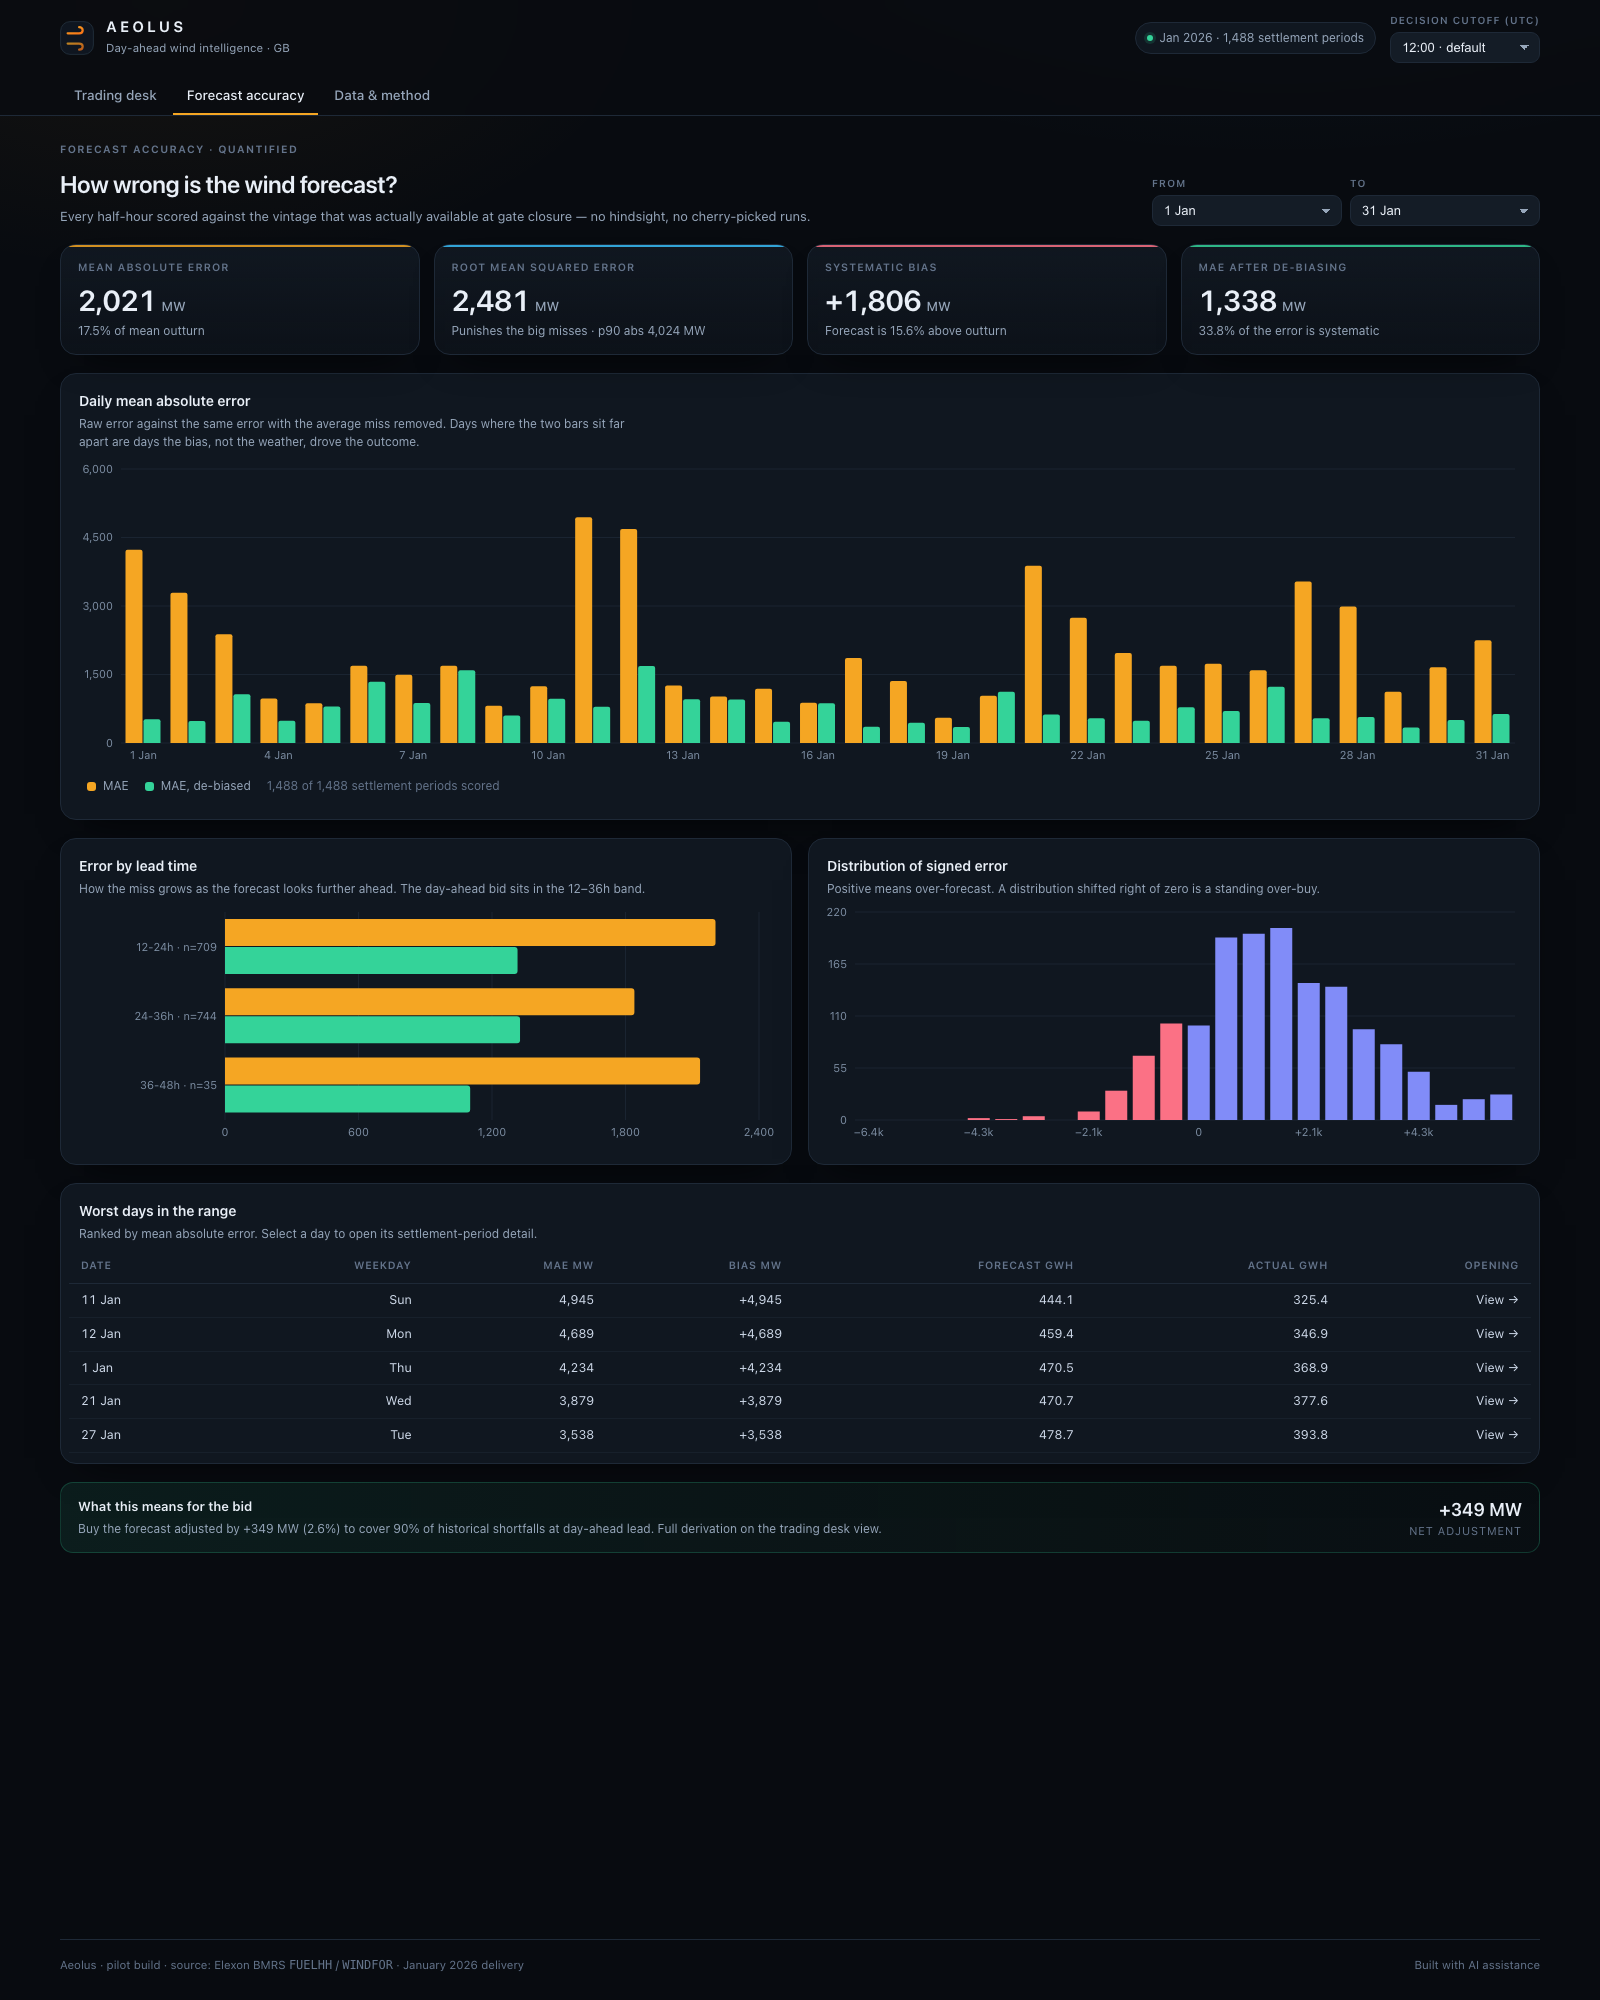
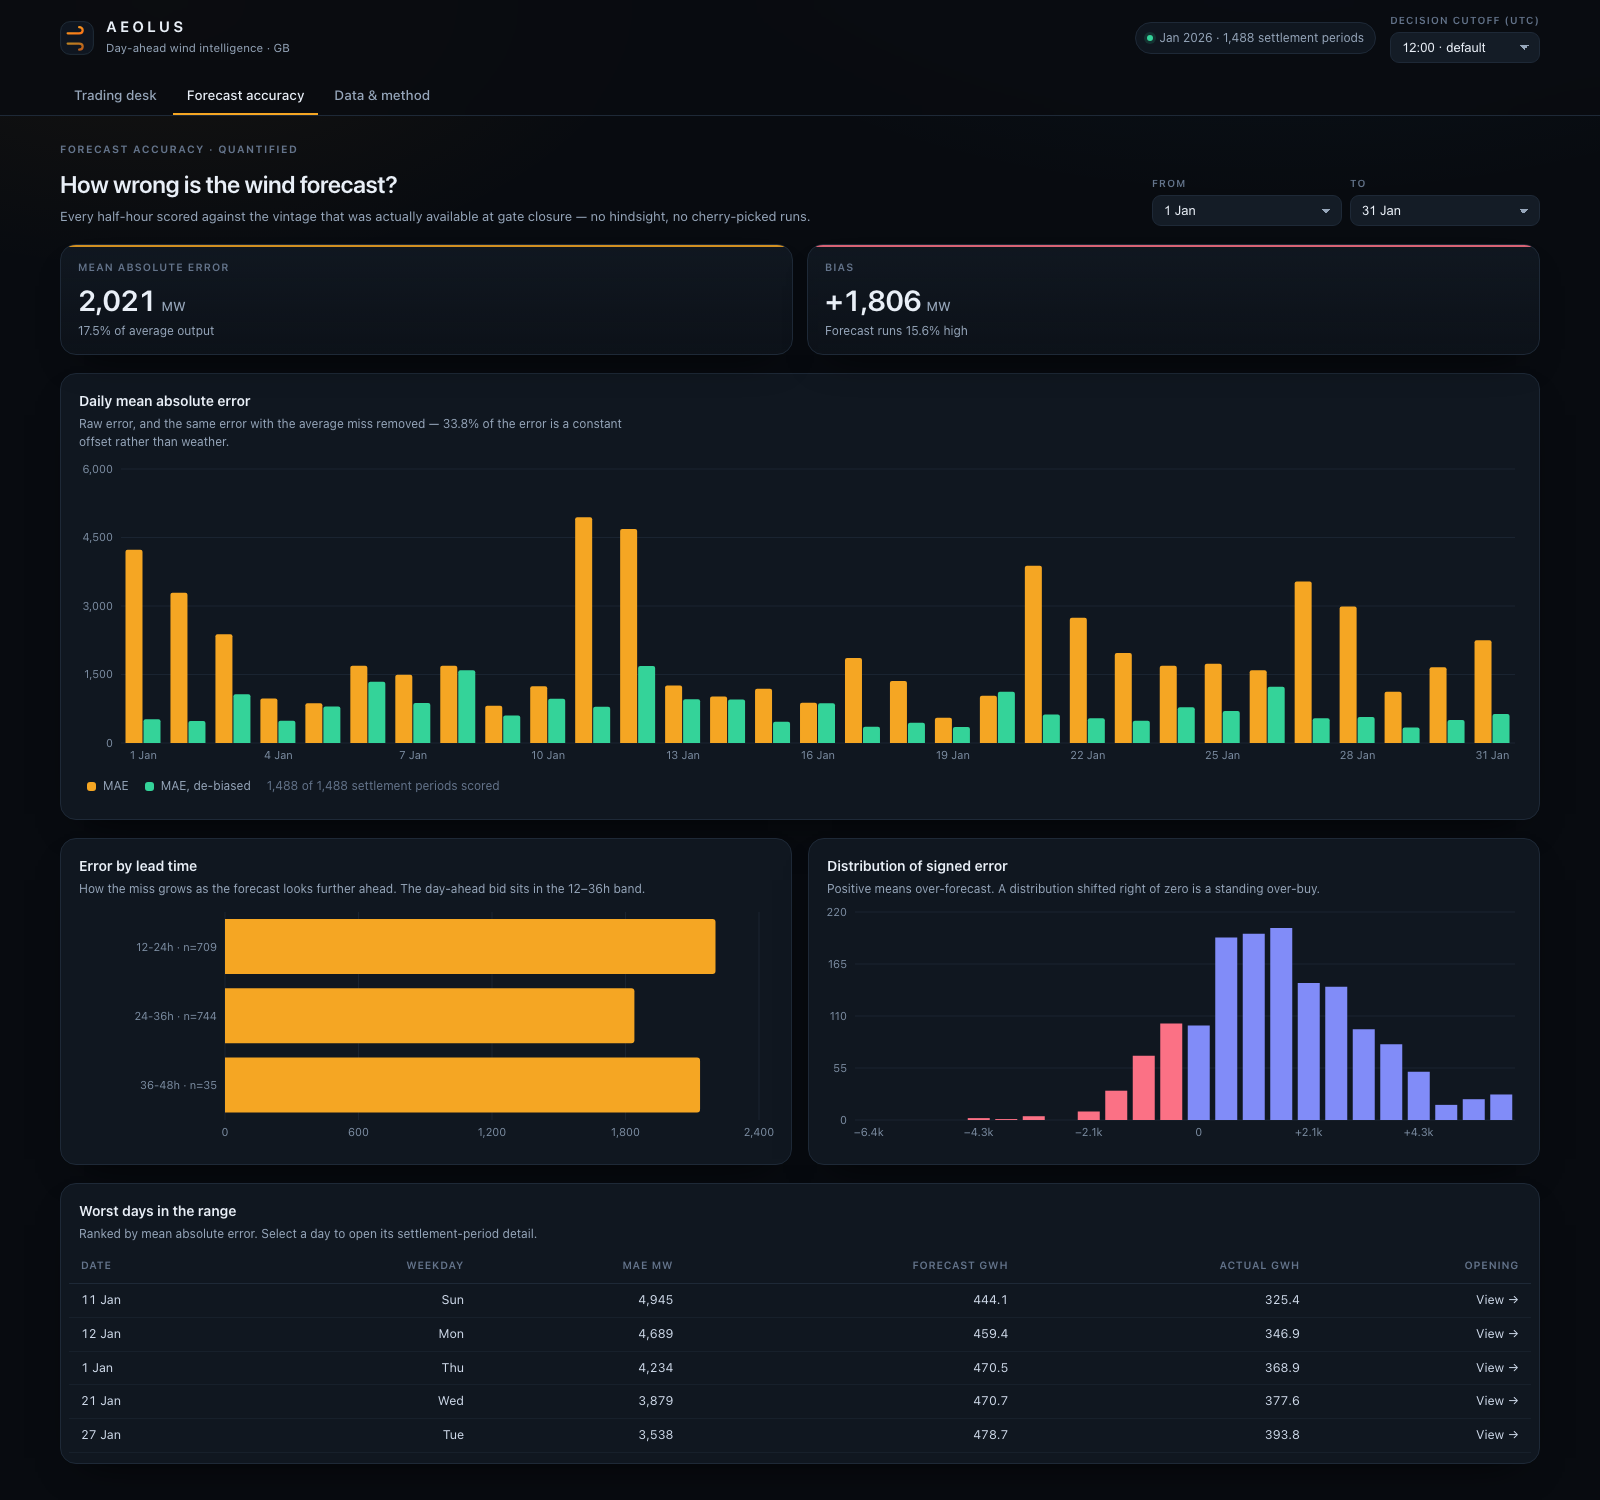
Simplify the interface: one number per question, nothing shown twice
The dashboard asked the reader to do arithmetic and repeated the same figures
across tabs. Now:

- trading desk: three cards (forecast, actual, error) instead of four; bias is
  no longer a separate card that duplicates MAE when all errors share a sign.
- recommendation: one figure, one percentage, a two-row ledger and a single
  sentence, replacing the four-row derivation.
- accuracy: two cards (MAE, bias) instead of four; RMSE and de-biased MAE stay
  in the API, and de-biasing is shown once, on the chart that visualises it.
- lead-time chart: single series (sample size retained on the axis).
- worst-days table: dropped the bias column, which repeated MAE in every row.
- removed the duplicate 'what this means for the bid' banner.
- metric definitions: six to four, in plain words.

diff --git a/frontend/src/pages/DecisionPage.tsx b/frontend/src/pages/DecisionPage.tsx
@@ -2,7 +2,7 @@ import { useMemo } from 'react'
 import { api, useAsync } from '../api'
 import { ErrorByPeriod, ForecastVsActual, C } from '../components/charts'
 import { ErrorState, Kpi, Loading, Panel } from '../components/Panel'
-import { clock, dayShort, fullDay, gwh, mw, pct, signedMw } from '../format'
+import { clock, dayShort, fullDay, gwh, mw, pct, signedGwh, signedMw } from '../format'
 import type { Meta } from '../types'
 
 export function DecisionPage({
@@ -41,9 +41,6 @@ export function DecisionPage({
   if (!data) return null
 
   const { summary, energy, buffer } = data
-  const horizonHours = 24
-  const biasGwh = ((buffer.bias_mw ?? 0) * horizonHours) / 1000
-  const headroomGwh = ((buffer.headroom_p90_mw ?? 0) * horizonHours) / 1000
   const vsForecastPct =
     energy.forecast_gwh > 0 ? ((energy.recommended_gwh_p90 - energy.forecast_gwh) / energy.forecast_gwh) * 100 : 0
 
@@ -121,23 +118,14 @@ export function DecisionPage({
           value={gwh(energy.actual_gwh)}
           unit="GWh"
           accent={C.actual}
-          sub={`Mean ${mw(summary.mean_actual_mw)} MW · ${data.status === 'published' ? 'settled' : 'pending'}`}
+          sub={`Mean ${mw(summary.mean_actual_mw)} MW`}
         />
         <Kpi
-          label="Mean absolute error"
+          label="Forecast error"
           value={mw(summary.mae_mw)}
           unit="MW"
-          accent={C.over}
-          sub={`90th percentile miss ${mw(summary.p90_abs_error_mw)} MW`}
-        />
-        <Kpi
-          label="Bias"
-          value={signedMw(summary.bias_mw)}
-          unit="MW"
           accent={C.under}
-          sub={`Forecast ran ${pct(summary.bias_ratio ? Math.abs(summary.bias_ratio - 1) * 100 : null)} ${
-            (summary.bias_ratio ?? 1) >= 1 ? 'above' : 'below'
-          } outturn`}
+          sub={`${pct(summary.nmae_pct)} of average output`}
         />
       </div>
 
@@ -163,50 +151,34 @@ export function DecisionPage({
           </div>
         </Panel>
 
-        <Panel title="Procurement recommendation" bodyClass="rec-body" note="Adjustment to apply to the raw wind forecast before bidding.">
+        <Panel
+          title="Procurement recommendation"
+          bodyClass="rec-body"
+          note="What to bid, after correcting for measured error."
+        >
           <div className="rec">
-            <div className="kpi-label">Recommended wind volume</div>
+            <div className="kpi-label">Recommended bid</div>
             <div className="rec-big">
               <span className="v">{gwh(energy.recommended_gwh_p90)}</span>
               <span className="u">GWh</span>
-            </div>
-            <div className="muted" style={{ fontSize: 12, marginBottom: 10 }}>
-              {vsForecastPct >= 0 ? 'Above' : 'Below'} the raw forecast by {pct(Math.abs(vsForecastPct))}
+              <span className="rec-delta">{signedGwh(vsForecastPct)}%</span>
             </div>
 
             <div className="rec-line">
-              <span className="k">Forecast energy</span>
+              <span className="k">Raw forecast</span>
               <span className="v">{gwh(energy.forecast_gwh)} GWh</span>
             </div>
-            <div className="rec-line">
-              <span className="k">
-                De-bias
-                <small>{mw(buffer.bias_mw)} MW over-stated, averaged over 24h</small>
-              </span>
-              <span className="v neg">−{gwh(Math.abs(biasGwh))} GWh</span>
-            </div>
-            <div className="rec-line">
-              <span className="k">
-                Headroom (p90)
-                <small>{mw(buffer.headroom_p90_mw)} MW to cover 9 half-hours in 10</small>
-              </span>
+            <div className="rec-line" style={{ borderBottom: 0 }}>
+              <span className="k">Adjustment</span>
               <span className="v" style={{ color: C.green }}>
-                +{gwh(Math.abs(headroomGwh))} GWh
-              </span>
-            </div>
-            <div className="rec-line" style={{ borderBottom: 0, paddingBottom: 0 }}>
-              <span className="k" style={{ color: 'var(--text)', fontWeight: 600 }}>
-                Net adjustment
-              </span>
-              <span className="v" style={{ color: C.green }}>
-                {signedMw(buffer.net_adjustment_mw)} MW
+                {signedGwh(energy.recommended_gwh_p90 - energy.forecast_gwh)} GWh
               </span>
             </div>
 
             <p className="rec-foot">
-              Headroom and bias calibrated on {buffer.n.toLocaleString('en-GB')} settlement periods of realised
-              January 2026 error at {buffer.lead_window} lead. Ex-post calibration: a production build would use a
-              rolling walk-forward window so no future information leaks into a past decision.
+              The forecast ran {mw(buffer.bias_mw)} MW high on average, so buy less — but hold {mw(buffer.headroom_p90_mw)} MW
+              back for the days it runs low. Net {signedMw(buffer.net_adjustment_mw)} MW, calibrated on{' '}
+              {buffer.n.toLocaleString('en-GB')} half-hours at {buffer.lead_window} lead (ex-post).
             </p>
           </div>
         </Panel>

diff --git a/frontend/src/pages/AccuracyPage.tsx b/frontend/src/pages/AccuracyPage.tsx
@@ -79,36 +79,22 @@ export function AccuracyPage({
               value={mw(data.overall.mae_mw)}
               unit="MW"
               accent={C.forecast}
-              sub={`${pct(data.overall.nmae_pct)} of mean outturn`}
+              sub={`${pct(data.overall.nmae_pct)} of average output`}
             />
             <Kpi
-              label="Root mean squared error"
-              value={mw(data.overall.rmse_mw)}
-              unit="MW"
-              accent={C.actual}
-              sub={`Punishes the big misses · p90 abs ${mw(data.overall.p90_abs_error_mw)} MW`}
-            />
-            <Kpi
-              label="Systematic bias"
+              label="Bias"
               value={signedMw(data.overall.bias_mw)}
               unit="MW"
               accent={C.under}
-              sub={`Forecast is ${pct(
+              sub={`Forecast runs ${pct(
                 data.overall.bias_ratio ? Math.abs(data.overall.bias_ratio - 1) * 100 : null,
-              )} ${(data.overall.bias_ratio ?? 1) >= 1 ? 'above' : 'below'} outturn`}
-            />
-            <Kpi
-              label="MAE after de-biasing"
-              value={mw(data.overall.mae_debiased_mw)}
-              unit="MW"
-              accent={C.green}
-              sub={`${pct(data.overall.mae_improvement_pct)} of the error is systematic`}
+              )} ${(data.overall.bias_ratio ?? 1) >= 1 ? 'high' : 'low'}`}
             />
           </div>
 
           <Panel
             title="Daily mean absolute error"
-            note="Raw error against the same error with the average miss removed. Days where the two bars sit far apart are days the bias, not the weather, drove the outcome."
+            note={`Raw error, and the same error with the average miss removed — ${pct(data.overall.mae_improvement_pct)} of the error is a constant offset rather than weather.`}
           >
             <DailyMae days={data.by_day} />
             <div className="legend">
@@ -151,7 +137,6 @@ export function AccuracyPage({
                     <th>Date</th>
                     <th>Weekday</th>
                     <th>MAE MW</th>
-                    <th>Bias MW</th>
                     <th>Forecast GWh</th>
                     <th>Actual GWh</th>
                     <th>Opening</th>
@@ -165,7 +150,6 @@ export function AccuracyPage({
                       <td className={day.mae_mw && day.mae_mw > (data.overall.mae_mw ?? 0) ? 'neg' : ''}>
                         {mw(day.mae_mw)}
                       </td>
-                      <td>{signedMw(day.bias_mw)}</td>
                       <td>{gwh(day.forecast_gwh)}</td>
                       <td>{gwh(day.actual_gwh)}</td>
                       <td className="muted">View →</td>
@@ -176,19 +160,6 @@ export function AccuracyPage({
             </div>
           </Panel>
 
-          <div className="banner">
-            <div className="banner-main">
-              <span className="banner-title">What this means for the bid</span>
-              <span className="banner-text">
-                Buy the forecast adjusted by {signedMw(data.buffer.net_adjustment_mw)} MW ({pct(data.buffer.net_adjustment_pct)})
-                to cover 90% of historical shortfalls at day-ahead lead. Full derivation on the trading desk view.
-              </span>
-            </div>
-            <div className="banner-metric">
-              <div className="v">{signedMw(data.buffer.net_adjustment_mw)} MW</div>
-              <div className="l">Net adjustment</div>
-            </div>
-          </div>
         </>
       )}
     </div>

diff --git a/frontend/src/components/charts.tsx b/frontend/src/components/charts.tsx
@@ -205,8 +205,7 @@ export function LeadBuckets({ buckets }: { buckets: Bucket[] }) {
       const span = bucket.lead_to_h >= 96 ? `${bucket.lead_from_h}h+` : `${bucket.lead_from_h}-${bucket.lead_to_h}h`
       return {
         bucket: `${span} · n=${bucket.n.toLocaleString('en-GB')}`,
-        raw: bucket.mae_mw,
-        debiased: bucket.mae_debiased_mw,
+        mae: bucket.mae_mw,
         n: bucket.n,
       }
     })
@@ -214,12 +213,7 @@ export function LeadBuckets({ buckets }: { buckets: Bucket[] }) {
   return (
     <div className="chart short">
       <ResponsiveContainer width="100%" height="100%">
-        <BarChart
-          data={data}
-          layout="vertical"
-          margin={{ top: 8, right: 24, bottom: 4, left: 8 }}
-          barGap={1}
-        >
+        <BarChart data={data} layout="vertical" margin={{ top: 8, right: 24, bottom: 4, left: 8 }}>
           <CartesianGrid stroke={C.grid} horizontal={false} />
           <XAxis type="number" tickFormatter={mwTick} {...axisProps} axisLine={false} />
           <YAxis
@@ -231,14 +225,7 @@ export function LeadBuckets({ buckets }: { buckets: Bucket[] }) {
             tick={{ fill: C.axis, fontSize: 11 }}
           />
           <Tooltip content={<ChartTip />} cursor={{ fill: 'rgba(255,255,255,0.03)' }} />
-          <Bar dataKey="raw" name="MAE" fill={C.forecast} radius={[0, 3, 3, 0]} isAnimationActive={false} />
-          <Bar
-            dataKey="debiased"
-            name="MAE, de-biased"
-            fill={C.green}
-            radius={[0, 3, 3, 0]}
-            isAnimationActive={false}
-          />
+          <Bar dataKey="mae" name="MAE" fill={C.forecast} radius={[0, 3, 3, 0]} isAnimationActive={false} />
         </BarChart>
       </ResponsiveContainer>
     </div>

diff --git a/frontend/src/pages/MethodPage.tsx b/frontend/src/pages/MethodPage.tsx
@@ -171,20 +171,13 @@ export function MethodPage({
         <Panel title="Metric definitions" bodyClass="">
           <div className="kv">
             <div>MAE</div>
-            <div>Mean of |forecast − actual|. The headline miss in MW.</div>
-            <div>RMSE</div>
-            <div>Square-rooted mean squared error. Weights large misses more heavily.</div>
+            <div>Mean miss in MW, ignoring direction. Also shown as a share of average output.</div>
             <div>Bias</div>
-            <div>Mean of (forecast − actual). Positive means a standing over-forecast.</div>
-            <div>nMAE</div>
-            <div>MAE as a share of mean outturn. Used instead of MAPE, which explodes when wind is near zero.</div>
+            <div>Average miss <em>with</em> direction. Positive means the forecast runs high.</div>
             <div>De-biased MAE</div>
-            <div>MAE after subtracting the mean error — the random component left over.</div>
-            <div>Headroom (p90)</div>
-            <div>
-              90th percentile of the centred shortfall. Hold this much above a de-biased forecast to cover nine
-              half-hours in ten.
-            </div>
+            <div>What is left after removing the average miss — the unpredictable part.</div>
+            <div>Headroom</div>
+            <div>The margin to hold so nine half-hours in ten are covered, from the measured shortfall.</div>
           </div>
         </Panel>
       </div>

diff --git a/frontend/src/styles.css b/frontend/src/styles.css
@@ -271,7 +271,9 @@ button:focus-visible {
 
 .kpi-grid {
   display: grid;
-  grid-template-columns: repeat(4, minmax(0, 1fr));
+  /* One number per question: the grid takes however many cards a page needs
+     and spreads them across the full width. */
+  grid-template-columns: repeat(auto-fit, minmax(240px, 1fr));
   gap: 14px;
 }
 
@@ -568,6 +570,19 @@ button:focus-visible {
   color: var(--green);
 }
 
+.rec-delta {
+  margin-left: 6px;
+  font-size: 15px;
+  font-weight: 600;
+  font-variant-numeric: tabular-nums;
+  color: var(--green);
+  background: rgba(52, 211, 153, 0.12);
+  border: 1px solid rgba(52, 211, 153, 0.25);
+  border-radius: 999px;
+  padding: 2px 9px;
+  align-self: center;
+}
+
 .rec-big .u {
   font-size: 14px;
   color: var(--muted);
@@ -860,9 +875,6 @@ table.data {
 @media (max-width: 1180px) {
   .split {
     grid-template-columns: 1fr;
-  }
-  .kpi-grid {
-    grid-template-columns: repeat(2, minmax(0, 1fr));
   }
   .flow {
     grid-template-columns: repeat(2, minmax(0, 1fr));

diff --git a/frontend/src/format.ts b/frontend/src/format.ts
@@ -17,6 +17,10 @@ export function gwh(value: number | null | undefined): string {
   return value === null || value === undefined ? '—' : oneDp.format(value)
 }
 
+export function signedGwh(value: number): string {
+  return `${value > 0 ? '+' : value < 0 ? '−' : ''}${oneDp.format(Math.abs(value))}`
+}
+
 export function pct(value: Metric | undefined): string {
   return value === null || value === undefined ? '—' : `${oneDp.format(value)}%`
 }

diff --git a/README.md b/README.md
@@ -181,6 +181,11 @@ conclusion; it is documented here so a reviewer can see it was considered rather
 | De-biased MAE | MAE of the centred error | separates systematic from random error |
 | Headroom (p90) | 90th percentile of the centred shortfall | the number of MW to hold for 9-in-10 coverage |
 
+The API computes more than the interface shows — RMSE, nMAE, p90/max absolute error and shortfall
+quantiles are all returned, because they are cheap and a reviewer may want them. The UI deliberately
+surfaces only the numbers that answer a distinct question (how big, which way, what to bid), so no figure
+is shown twice and nobody has to do arithmetic on screen.
+
 ### 3. From error to a bid
 
 The recommendation on the trading desk view is two corrections composed:
